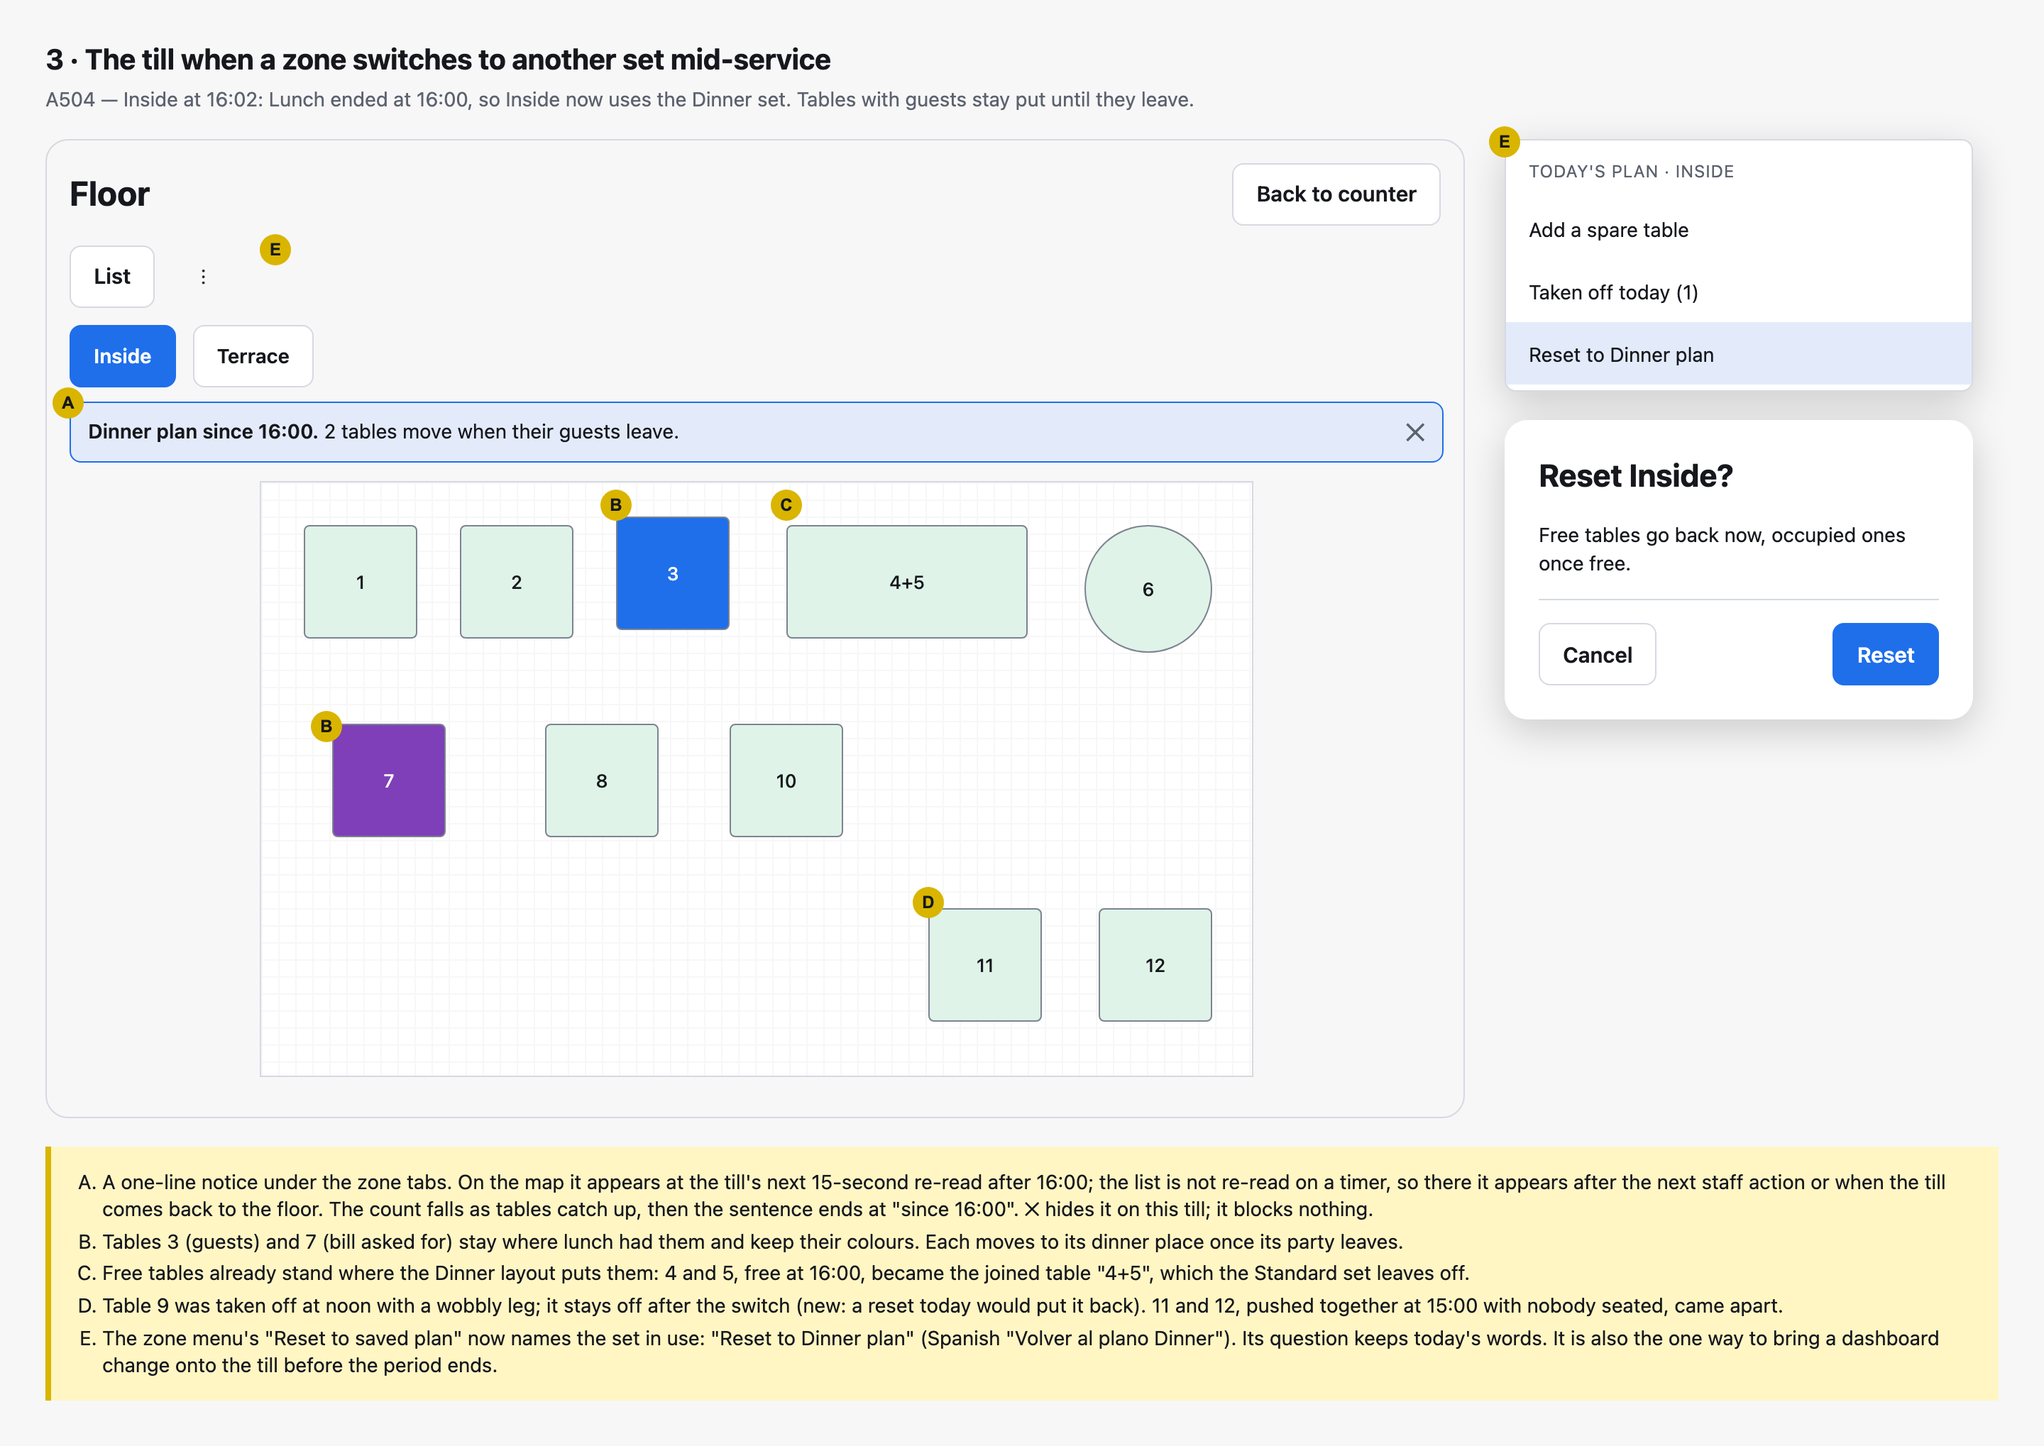
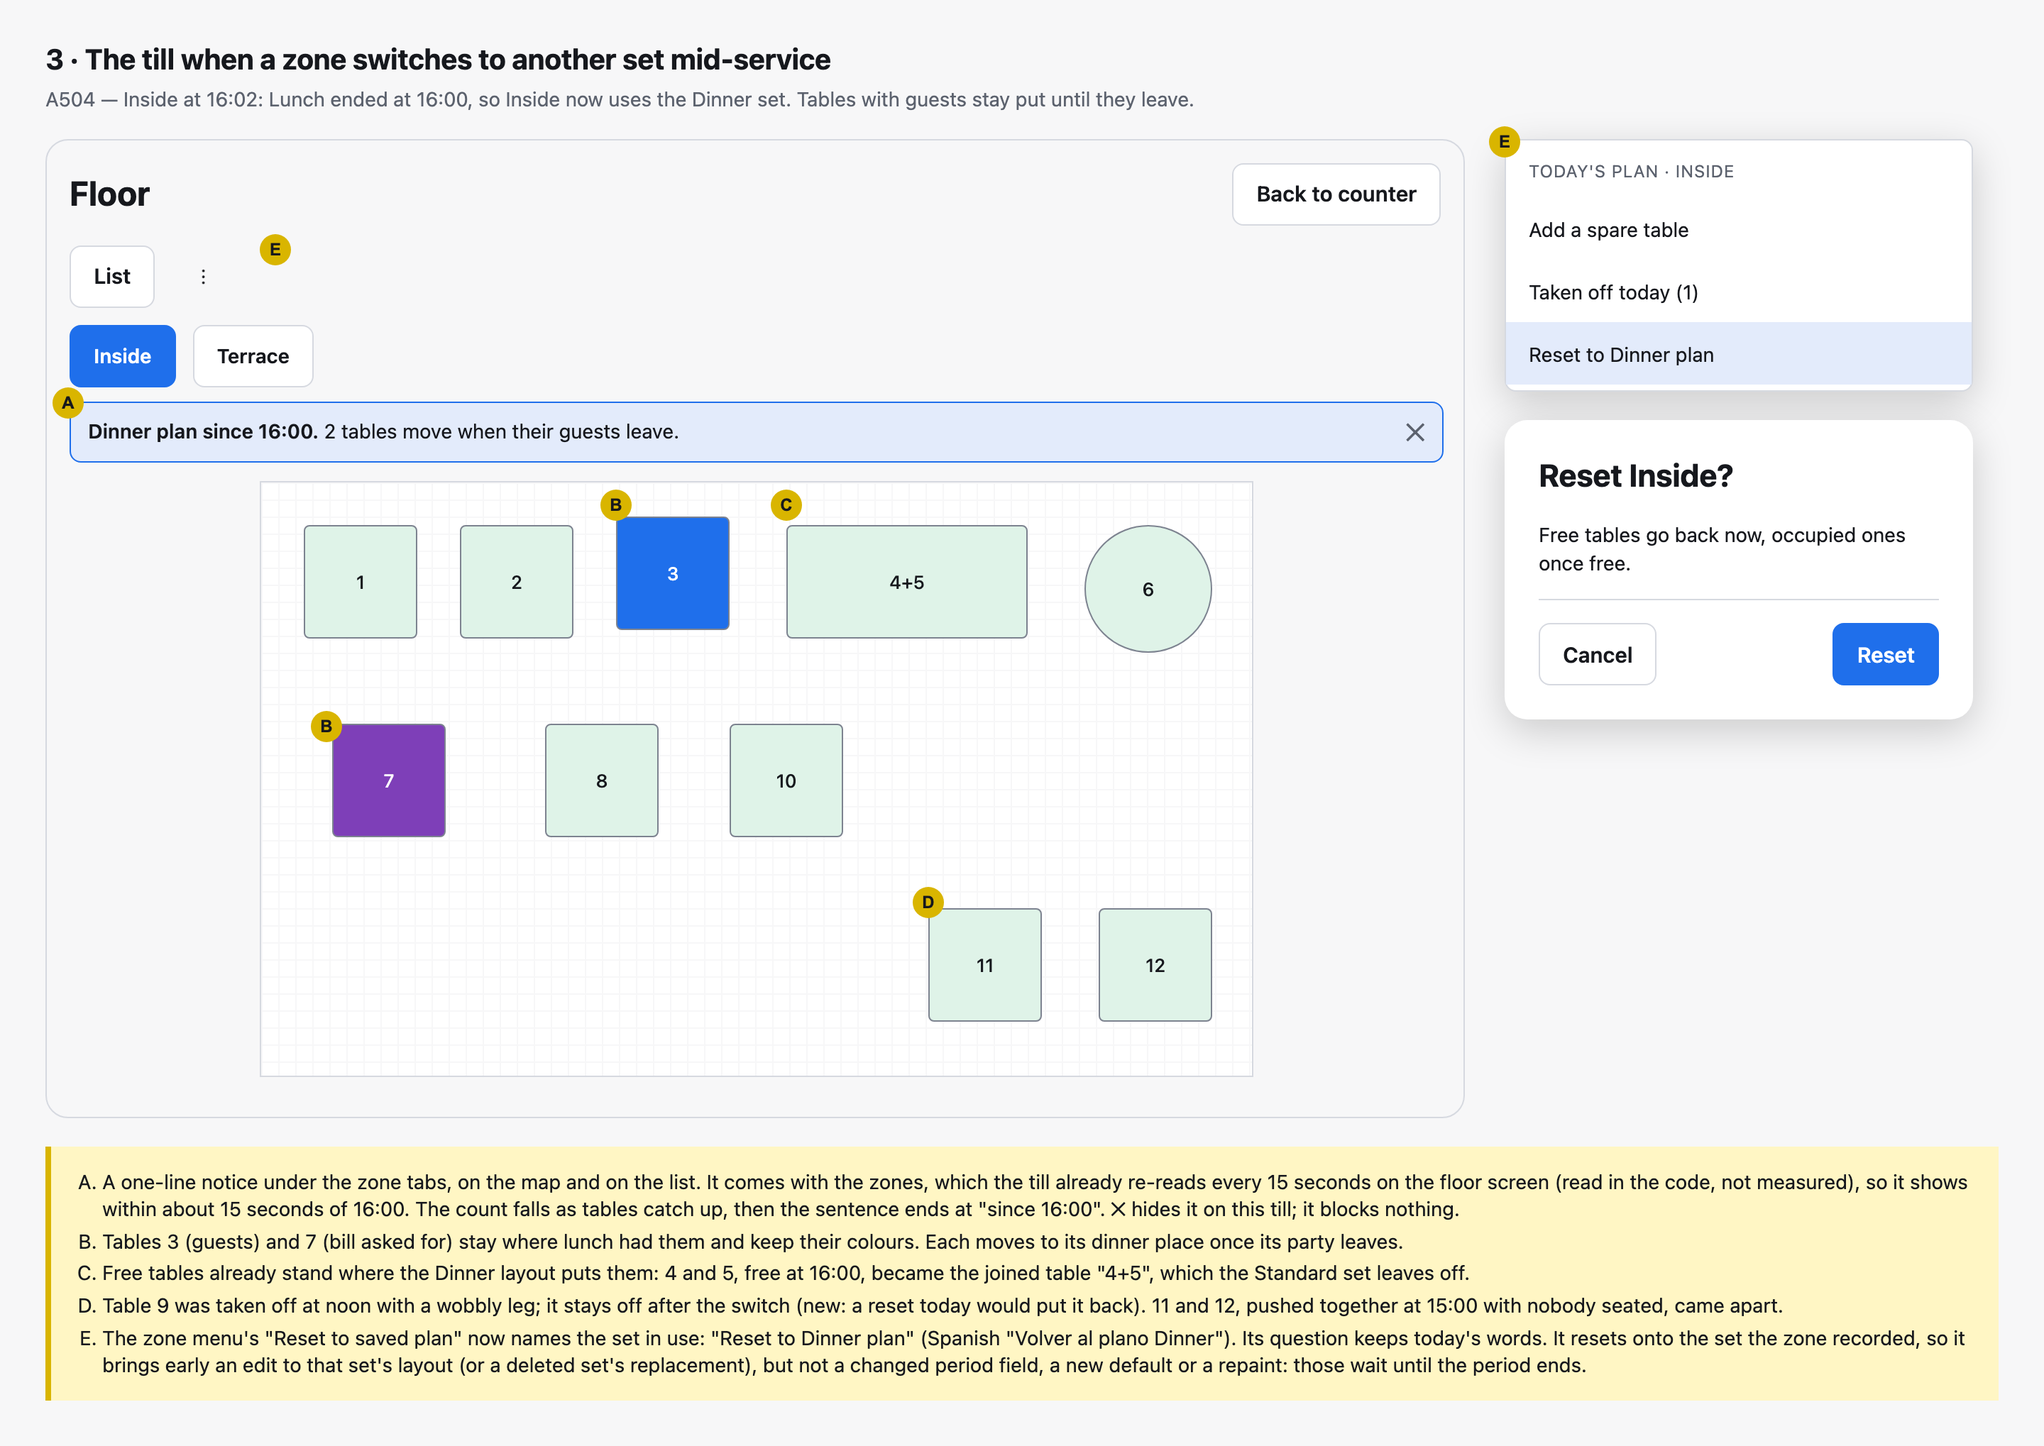
docs(spec): A504 — answer the second review
- When a zone's recorded moment comes and the rule gives the set already in use, nothing is reset;
  only the recorded period and moment move on.
- "Reset to … plan" resets onto the set the zone recorded, so it brings early an edit to that set's
  layout or a deleted set's replacement, but not a changed period field, a new default or a repaint.
  Its label names the set it would reset onto. Working the rule out afresh is offered instead.
- The till already re-reads the zones every 15 seconds on the floor screen, map and list, so the
  notice's facts move onto the zones read, which then also performs the change.
- The floor read's query has to be rebuilt, not just given one more test; zone closed times now
  live in zone_days and zone_day_ranges; examples for a day with no period and a cancelled keep
  open; the delete dialog names the period each zone waits for; Publish later is hidden while a
  layout waits.

diff --git a/docs/superpowers/specs/2026-10-17-a504-floor-plans-design.md b/docs/superpowers/specs/2026-10-17-a504-floor-plans-design.md
@@ -54,12 +54,20 @@ From the backlog entry ([till.md, A504](../../backlog/till.md#a504-floor-plans-p
   per table (`apps/till/src/api/client.ts:3412-3414`; server `apps/server/src/till-api.ts:2675-2685`),
   which runs `ensureToday` first, so any such read can be the one that resets a zone. Zones come
   from a separate read, `GET /api/zones` (`client.ts:3403`; `till-api.ts:2689`), which does not run
-  `ensureToday`. While a zone's map is on screen the floor screen asks for a re-read every 15
-  seconds (`#watchFloor`, `apps/till/src/screens/till-floor-screen.ts:691-701`), and that re-read
-  fetches the tables only (`#pollFloor` and `#refreshFloor`, `apps/till/src/till-app.ts:7883-7911`).
-  Both are read when the floor is first loaded (`till-app.ts:7798-7808`) and when the till moves to
-  the floor (`till-app.ts:7852-7857`). The list view is not re-read on a timer (backlog, till.md
-  "Refresh the floor without a staff action in a zone's list view").
+  `ensureToday`. Two 15-second timers re-read them, both read in the code, not run:
+  - **Tables, on the map only.** While a zone's map is on screen the floor screen asks for a
+    re-read every 15 seconds (`#watchFloor`, `apps/till/src/screens/till-floor-screen.ts:691-701`),
+    which fetches the tables only (`#pollFloor` and `#refreshFloor`, `apps/till/src/till-app.ts:7883-7911`).
+    The list's tables are not re-read on a timer (backlog, till.md "Refresh the floor without a
+    staff action in a zone's list view").
+  - **Zones, on the map and the list.** The menu-checking timer, started at sign-in
+    (`till-app.ts:3892`), ticks every 15 seconds (`POLL_MS`, `apps/till/src/state/menu-state-poll.ts:4`,
+    `42`, `56`), and each tick re-reads the zones whenever the floor screen shows and no order is open
+    (`onTick`, `till-app.ts:2176-2185`).
+
+  Both are also read when the floor is first loaded (`till-app.ts:7798-7808`) and when the till
+  moves to the floor (`till-app.ts:7852-7857`), and the zones after "keep open" changes and when a
+  held order's move opens (`till-app.ts:12338`, `12390`).
 - **Periods.** A period belongs to one department (`menu_periods.department_id`,
   `packages/venue-service/src/schema/menus.ts:10-36`), and a zone belongs to one department
   (`zone_service_policies`, `packages/venue-service/src/schema/service.ts:51-79`). Which period is
@@ -198,7 +206,9 @@ Mock-up: [1-floor-plans-page.png](../../backlog/mockups/a504-floor-plans/1-floor
   **Replace with**, the period delete dialog's wording, preselected to the default set. Unlike
   that dialog it has no "None", because every period needs a set. Cancel on the left, a danger
   **Delete {set}** on the right. Deleting a set a zone is using right now does not change the till
-  then (section 7.2).
+  then (section 7.2), and the dialog says so per case: for zones using it now, "{zones} keep today's
+  layout until {period} ends", where {period} is the period each zone recorded (deleted at 14:00:
+  "until Lunch ends"; at 17:00: "until Dinner ends"); when no zone is using it, no such line.
 - **The editor** keeps its contract, its header included (Undo, Redo, Cancel, Save). Its title
   gains the set's name, "Inside · Dinner", and a line under it says "Tables are shared by every set.
   Adding, renaming or deleting one here does it in every set." Its address becomes
@@ -274,7 +284,9 @@ move the till's tables within seconds.
 it for and the moment its rule can next give another answer** (the end of the running period, or of
 the next period when none runs, or the end of the business day). Until that moment the zone keeps
 its set whatever is changed on the dashboard; at that moment the rule is worked out again with the
-settings as they then stand.
+settings as they then stand. **If the answer is the set already in use, nothing is reset:** only the
+recorded period and moment move on. Two periods that share one set therefore follow each other with
+no reset, and a period kept open before it ends just moves the moment.
 
 > At 14:00 the owner changes Dinner's Floor plan from "Dinner" to "Private party". Nothing moves on
 > the till. At 16:00, when Lunch ends, Inside and Terrace switch to Private party.
@@ -286,14 +298,36 @@ settings as they then stand.
 > At 17:00 the owner deletes "Dinner", replacing it with "Standard". The till keeps today's copy of
 > Dinner's layout until Dinner ends at 23:30; "Reset to … plan" in the zone menu, pressed meanwhile,
 > uses Standard.
+>
+> At 15:50 a manager keeps Lunch open until 16:45, so at 16:00 the rule still gives Standard: nothing
+> is reset, and the recorded moment becomes 16:45. At 16:10 the manager cancels the keep open; the
+> floor keeps Standard until 16:45, the moment it recorded, then switches to Dinner's set.
+>
+> Monday is a day with no period, so the zones take the default set, Standard, until the day ends.
+> At 11:00 the owner paints a lunch for today: the menus offer it at once, but the floor takes its
+> set only from tomorrow's start.
 
-The explicit "Reset to … plan" button is the one way to bring a dashboard change onto the till early,
-as "Reset to saved plan" is today. It resets onto the recorded set's current layout, or, if that set
-has been deleted, onto the set the period now picks.
+**"Reset to … plan" in the till's zone menu (default: onto the recorded set).** It resets onto the
+recorded set's current layout, as "Reset to saved plan" does today. So it brings early an edit to
+that set's layouts, and, when that set has been deleted, the replacement chosen in the delete
+dialog. It does not bring early a changed Floor plan field, a new default set or a repaint: they
+wait for the recorded moment.
 
-This also keeps the floor read cheap: today `ensureToday` finds the zones needing work in one query
-(`floor-today-store.ts:541-565`); with the recorded moment, that query gains one comparison, and the
-department's periods are worked out only for zones whose moment has passed.
+> At 14:00 a manager repaints today so Lunch ends at 15:00. At 15:10 a waiter presses "Reset to
+> Standard plan": the zone resets onto Standard, the set it recorded, not onto Dinner's set.
+
+Its label names the set it would reset onto: the recorded set, or, after that set is deleted, the
+replacement ("Reset to Standard plan" in the 17:00 example above).
+
+**Alternative for the button: it works the rule out afresh.** Pressed at 15:10 in the example above,
+it resets onto Dinner's set and records Dinner. The button then brings every dashboard change early,
+but staff pressing it to tidy the room can change the whole layout by surprise.
+
+**The cost of the floor read.** Today `ensureToday` finds the zones needing work in one query that
+starts from `floor_plans` (`floor-today-store.ts:541-565`, `.from(floorPlans)` at line 543). With
+one row per set plus a waiting row there, that query has to be rebuilt to start from the zones and
+today's rows, and gains the test on the recorded moment; the department's periods are worked out only
+for zones whose moment has passed, so between boundaries a read does no more than that one query.
 
 **Alternative: the switch follows the settings live.** Every floor read works out each department's
 running period and switches any zone whose answer changed, so the 14:00 changes above move the
@@ -320,12 +354,13 @@ it switches to Dinner again.
 **Default: a switch is the reset the till already performs, onto the new set's layout, with one
 difference: tables taken off for today stay off.**
 
-There is still no timer on the server. Any `GET /api/tables/state` after a zone's recorded moment
-performs the switch (`ensureToday` runs inside it, `till-api.ts:2675-2685`). A till showing that
-zone's map makes that read at its next 15-second re-read (`till-floor-screen.ts:691-701`), so the
-new layout normally shows within about 15 seconds of the boundary; this was read, not measured. A
-till showing the list, or another screen, shows it after its next floor read: a staff action on the
-floor, or moving to the floor (`till-app.ts:7852-7857`).
+There is still no timer on the server. Any floor read after a zone's recorded moment performs the
+switch: `GET /api/tables/state` already runs `ensureToday` (`till-api.ts:2675-2685`), and under
+section 10's default `GET /api/zones` runs it too. A till on the floor screen, map or list, re-reads
+the zones every 15 seconds, and on the map the tables too (section 2), so it shows the change within
+about 15 seconds of the boundary; this was read in the code, not measured. On the list, the table
+rows themselves are refreshed only after a staff action or when the till comes back to the floor,
+as today. A till on another screen shows it when it comes back to the floor.
 
 What each kind of table does, from today's reset rules (`floor-reset-plan.ts:80-87`), at Inside at
 16:00:
@@ -367,11 +402,11 @@ and [4-till-switch-notice-phone.png](../../backlog/mockups/a504-floor-plans/4-ti
 
 **Default: a one-line notice under the zone tabs**, "Dinner plan since 16:00. 2 tables move when
 their guests leave." The count falls as tables catch up; at none the sentence ends at "since 16:00".
-It has a close button, stays closed on that till for that switch, and blocks nothing. It appears on
-the map at the read that performs or follows the switch, and on the list only at the list's next
-read (section 7.4). The zone menu's "Reset to saved plan" (`floor.reset_plan`,
-`apps/till/src/i18n/strings.ts:855`) becomes "Reset to Dinner plan", naming the set in use; its
-question keeps today's words.
+It has a close button, stays closed on that till for that switch, and blocks nothing. It comes from
+the zones read, so it appears on the map and on the list at the next 15-second zones re-read
+(section 7.4). The zone menu's "Reset to saved plan" (`floor.reset_plan`,
+`apps/till/src/i18n/strings.ts:855`) becomes "Reset to Dinner plan", naming the set it would reset
+onto (section 7.2); its question keeps today's words.
 
 **Alternatives:** also draw a dashed outline where each waiting table will go (clearer, but outlines
 can sit over other tables, the A600 gap); or no notice.
@@ -416,7 +451,8 @@ from the Floor plans page, takes a date and no time, and keeps the editor's head
 - **"Goes live" means the start of that business day:** the first floor read on or after it puts the
   waiting layout in place of the set's layout, and resets the zone if that set is in use, as a new
   day's reset does today.
-- **One waiting layout per set and zone.** The zone row shows "From 1 Jun 2027"; the chip's menu has
+- **One waiting layout per set and zone.** While one waits, the zone row's menu does not offer
+  Publish later… (it is hidden, not refused). The zone row shows "From 1 Jun 2027"; the chip's menu has
   **Edit**, **Change date** and **Cancel this layout**, the cancel asking "Cancel the layout scheduled
   for 1 Jun 2027?" with **Keep it**. Editing it keeps its date.
 - **Saving the layout in use while one waits is allowed, and the editor says what happens:** a line
@@ -470,8 +506,9 @@ A sketch for the plan to settle, not a final schema.
   width, height, shape, turn; no row means put away). `floor_plan_table_sizes` gains `plan_id`.
   `floor_plan_table_parts` stays per joined table, shared by every layout.
 - **`floor_today_zones`** gains `set_id` (the set in use), `period_id` (the period it was taken for,
-  null on a day with none) and `holds_until` (the moment of section 7.2). `ensureToday`'s query
-  gains `holds_until <= now` beside its current tests.
+  null on a day with none) and `holds_until` (the moment of section 7.2). `ensureToday`'s query is
+  rebuilt to start from the zones and gains `holds_until <= now` (section 7.2, "The cost of the floor
+  read").
 - **`floor_reset_tables`** works as today; a switch writes it as a reset does, copying `taken_off`
   from today's row instead of clearing it.
 
@@ -484,12 +521,15 @@ A sketch for the plan to settle, not a final schema.
   `resolveDepartmentService`'s periods and runs, which the core floor code calls as it already calls
   `VENUE_SERVICE` (`apps/server/src/working-order.ts:168`).
 
-**What the till reads.** `GET /api/tables/state` stays the floor read, and since it is the read that
-performs a switch, the notice's facts travel on it: each table row gains `planSet` (the name of the
-set in use in its zone and the time it came in) and `waitingToMove` (true while the table waits at
-its old place). The till groups them by zone. The 15-second re-read needs no second request.
-(Alternative: put the set on `GET /api/zones` and have the re-read fetch zones too; that read does
-not run `ensureToday` today, `till-api.ts:2689`, so it would have to, or be read after the tables.)
+**What the till reads.** The notice's facts belong to a zone, and the till already re-reads the
+zones every 15 seconds on the floor screen, map and list (section 2), so they go on `GET /api/zones`:
+each zone gains `planSet` (the name of the set in use and the time it came in) and `waitingToMove`
+(how many tables wait at their old place). For the zones read to show a switch it must also be able
+to perform one, so `GET /api/zones` runs the floor catch-up as `GET /api/tables/state` does
+(`till-api.ts:2675-2685`; today it does not, `till-api.ts:2689`). This costs no extra request.
+(Alternative: put the facts on each table row of `GET /api/tables/state`, the read that performs the
+switch today; but the list does not re-read tables on a timer, so the list would show the notice
+only after a staff action.)
 The dashboard's live subscriptions name the new tables as sources (`scripts/live-subscriptions.test.ts`),
 and the configuration export, which lists `floor_plans` today (`packages/db/src/configuration-transfer.ts:53`),
 adds them.
@@ -530,8 +570,10 @@ after a period ended; (8) what a switch does and the till's notice; (9) publishi
 - **Deleting a department** (A435 step 6) must delete its sets and their layouts with it; the impact
   read in its delete dialog should count them
   ([reconciliation](../plans/2026-10-11-a435-6-tables-zones-departments-delete.md)).
-- **A zone's own closed times and "keep open"** (`zone_closed_times`, `zone_extensions`,
-  `packages/venue-service/src/schema/zone-extensions.ts`, A366). The rule here follows the
+- **A zone's own closed times and "keep open"** (`zone_days` and `zone_day_ranges`,
+  `packages/venue-service/src/schema/seasons.ts:164`, `203`; `zone_extensions`,
+  `packages/venue-service/src/schema/zone-extensions.ts`, A366). The older `zone_closed_times` table
+  is gone (`packages/venue-service/src/migrations.test.ts:191-197`). The rule here follows the
   department's period; whether a zone kept open past its department's period keeps its layout is for
   the plan.
 - **Bookings.** A booking on a table the evening's set puts away: the editor could warn, the booking
@@ -571,8 +613,9 @@ after a period ended; (8) what a switch does and the till's notice; (9) publishi
 - **Run:** the keep-open reopening test (section 2). **Read and cited:** everything else in section 2,
   including that one department's painted ranges cannot overlap (`service-day.ts:76-80`) and that
   keep open cuts into the next range (`service-day.ts:161-184`).
-- **Not measured:** how soon a till shows a switch. "About 15 seconds" for a till on the map rests on
-  reading `#watchFloor` and `#pollFloor`; no till was run across a period boundary.
+- **Not measured:** how soon a till shows a switch. "About 15 seconds" rests on reading
+  `#watchFloor`, `#pollFloor` and the menu-checking timer's `onTick`; no till was run across a period
+  boundary.
 - **Expected, not tested:** that `planReset`'s waiting rules carry over unchanged to a reset onto
   another set's layout, and that recording `holds_until` makes keep open, repaints and deletions
   behave as sections 7.2 and 7.3 describe.
